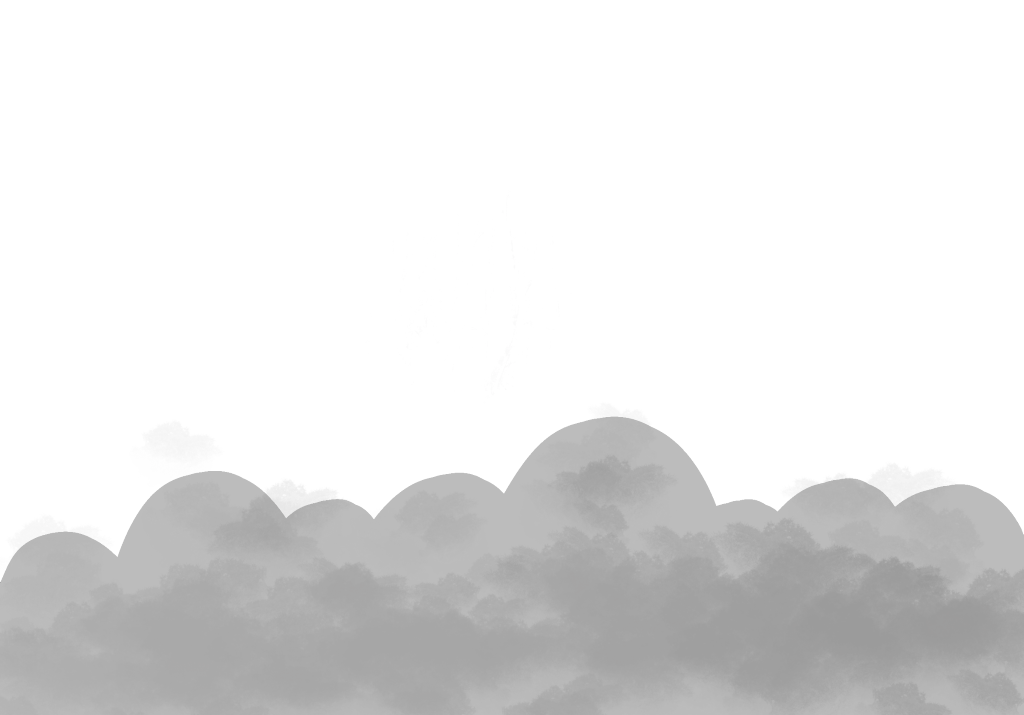
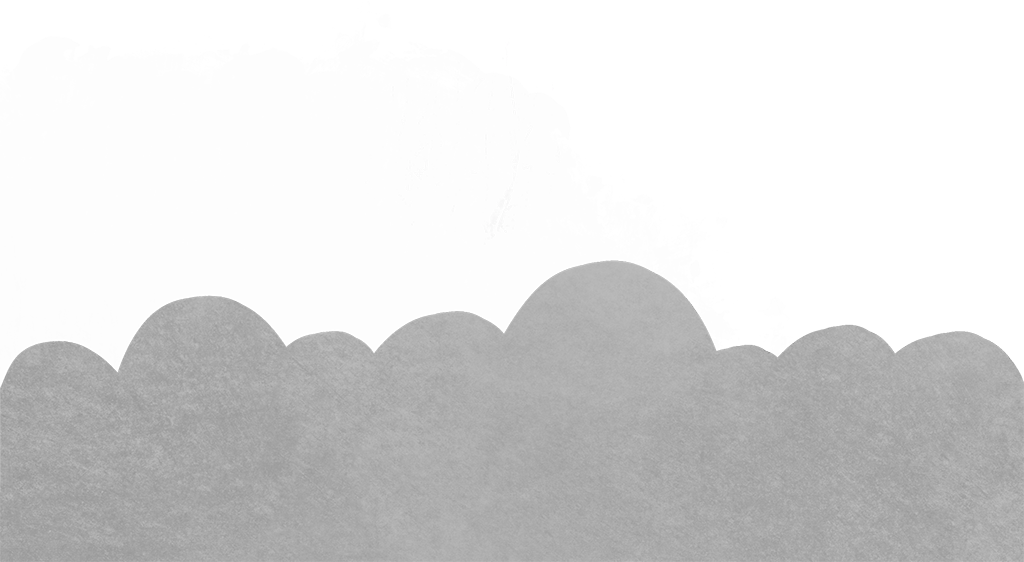
Parallax Temporary Implementation

Changed region(s): [[0.0, 0.4537, 1.0, 0.8772]]

diff --git a/rrga/core/src/com/mygdx/game/mode/MenuMode.java b/rrga/core/src/com/mygdx/game/mode/MenuMode.java
@@ -422,11 +422,13 @@ public class MenuMode extends MenuScreen {
                 exitPressState = 2;
                 currentExitCode = EXIT_QUIT;
                 listener.exitScreen(this, currentExitCode);
+                currentExitCode = Integer.MIN_VALUE;
             } else if (startPressState == 1) {
                 currentLevel = 1;
                 startPressState = 2;
                 currentExitCode = EXIT_PLAY;
                 listener.exitScreen(this, currentExitCode);
+                currentExitCode = Integer.MIN_VALUE;
             }
         } else if (screenMode == 2) {
             if (exitPressState == 1) {
@@ -439,16 +441,19 @@ public class MenuMode extends MenuScreen {
                 levelPressState1 = 2;
                 currentExitCode = EXIT_PLAY;
                 listener.exitScreen(this, currentExitCode);
+                currentExitCode = Integer.MIN_VALUE;
             } else if (levelPressState2 == 1) {
                 currentLevel = 2;
                 levelPressState2 = 2;
                 currentExitCode = EXIT_PLAY;
                 listener.exitScreen(this, currentExitCode);
+                currentExitCode = Integer.MIN_VALUE;
             } else if (levelPressState3 == 1) {
                 currentLevel = 3;
                 levelPressState3 = 2;
                 currentExitCode = EXIT_PLAY;
                 listener.exitScreen(this, currentExitCode);
+                currentExitCode = Integer.MIN_VALUE;
             }
         } else if (screenMode == 3) {
             if (exitPressState == 1) {
@@ -502,24 +507,24 @@ public class MenuMode extends MenuScreen {
 
         if (screenMode == 1) {
             // Draw Level Select Button
-            levelSelectButton.draw(canvas, selectPressState);
+            levelSelectButton.draw(canvas, selectPressState, BUTTON_SCALE);
             // Draw Settings Button
-            settingsButton.draw(canvas, settingsPressState);
+            settingsButton.draw(canvas, settingsPressState, BUTTON_SCALE);
             // Draw Exit Button
-            exitButton.draw(canvas, exitPressState);
+            exitButton.draw(canvas, exitPressState, BUTTON_SCALE);
             // Draw Start Button
-            startButton.draw(canvas, startPressState);
+            startButton.draw(canvas, startPressState, BUTTON_SCALE);
         } else if (screenMode == 2){
             // Draw Back Button
-            backButton.draw(canvas, exitPressState);
+            backButton.draw(canvas, exitPressState, BUTTON_SCALE);
             // Temporary Implementation - Will change to iterables once we get proper textures
-            levelButton1.draw(canvas, levelPressState1);
-            levelButton2.draw(canvas, levelPressState2);
-            levelButton3.draw(canvas, levelPressState3);
+            levelButton1.draw(canvas, levelPressState1, BUTTON_SCALE);
+            levelButton2.draw(canvas, levelPressState2, BUTTON_SCALE);
+            levelButton3.draw(canvas, levelPressState3, BUTTON_SCALE);
 
         } else if (screenMode == 3) {
             // Draw Back Button
-            backButton.draw(canvas, exitPressState);
+            backButton.draw(canvas, exitPressState, BUTTON_SCALE);
 
             // Draw sliders
             musicSlider.draw(canvas);
@@ -554,6 +559,8 @@ public class MenuMode extends MenuScreen {
      * @param delta Number of seconds since last animation frame
      */
     public void render(float delta) {
+
+        System.out.println("render-menu");
         // TODO: Move this if necessary
         musicVolume = musicSlider.ratio;
         sfxVolume = sfxSlider.ratio;
@@ -562,7 +569,6 @@ public class MenuMode extends MenuScreen {
         backgroundMusic.setLooping(true);
 
         draw();
-
     }
 
     @Override
@@ -634,13 +640,12 @@ public class MenuMode extends MenuScreen {
     }
 
     public void pause() {
-        listener = null;
         if (backgroundMusic != null){
             backgroundMusic.stop();
         }
-        // NEED TO ADD
     }
 
+    /** Reset is for transitioning from other mode to current mode*/
     public void reset() {
         musicVolume = musicSlider.ratio;
         sfxVolume = sfxSlider.ratio;

diff --git a/rrga/core/src/com/mygdx/game/GameMode.java b/rrga/core/src/com/mygdx/game/GameMode.java
@@ -422,9 +422,9 @@ public class GameMode implements Screen {
 
         // Parallax Drawing
         //TODO: REMOVE THIS COMMENT FOR PARALLAX IMPLEMENTATION (IT NEEDS FURTHER SCALING AND CHANGE OF ASSET)
-//        canvas.drawWrapped(skyLayerTextureA, -px * horizontalA , -py * verticalA, px, py, worldHeight, zoomScl);
-//        canvas.drawWrapped(skyLayerTextureB, -px * horizontalB, -py * verticalB, px, py, worldHeight, zoomScl);
-//        canvas.drawWrapped(skyLayerTextureC, -px * horizontalC, -py * verticalC, px, py, worldHeight, zoomScl);
+        canvas.drawWrapped(skyLayerTextureA, -px * horizontalA , -py * verticalA, px, py, worldHeight, zoomScl);
+        canvas.drawWrapped(skyLayerTextureB, -px * horizontalB, -py * verticalB, px, py, worldHeight, zoomScl);
+        canvas.drawWrapped(skyLayerTextureC, -px * horizontalC, -py * verticalC, px, py, worldHeight, zoomScl);
 
         PlayerModel avatar = gameplayController.getPlayer();
         // draw texture tiles
